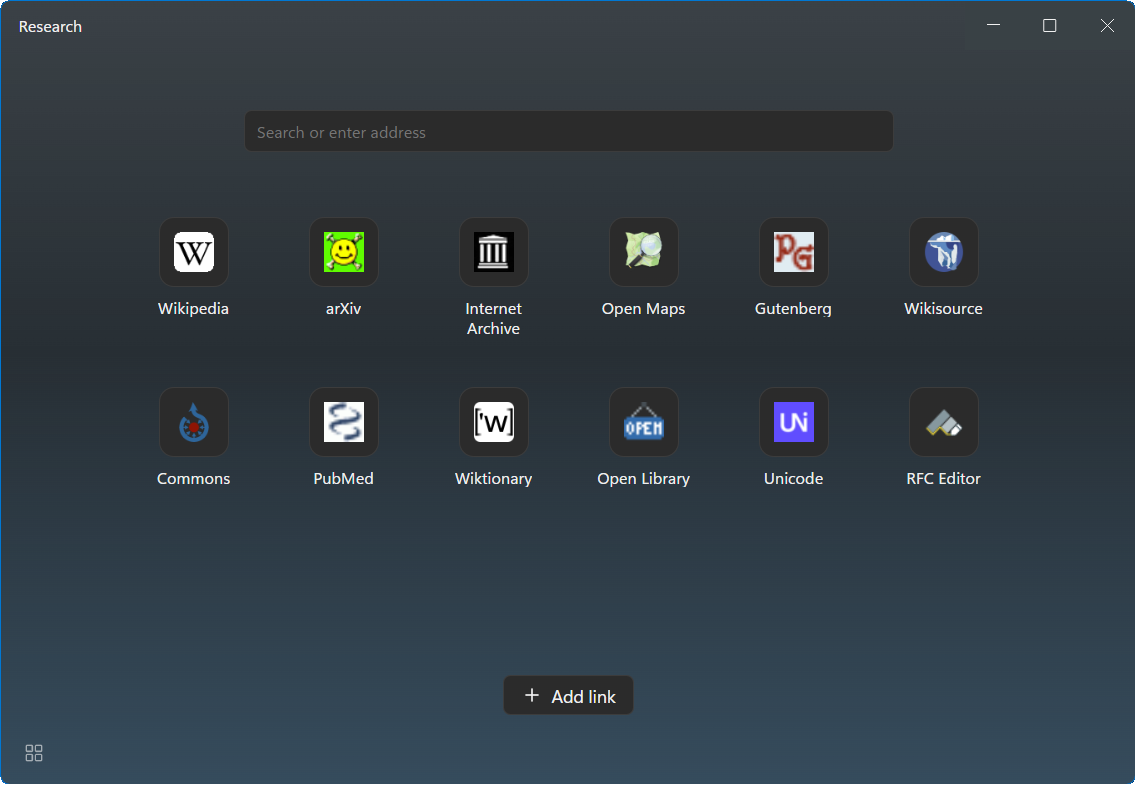
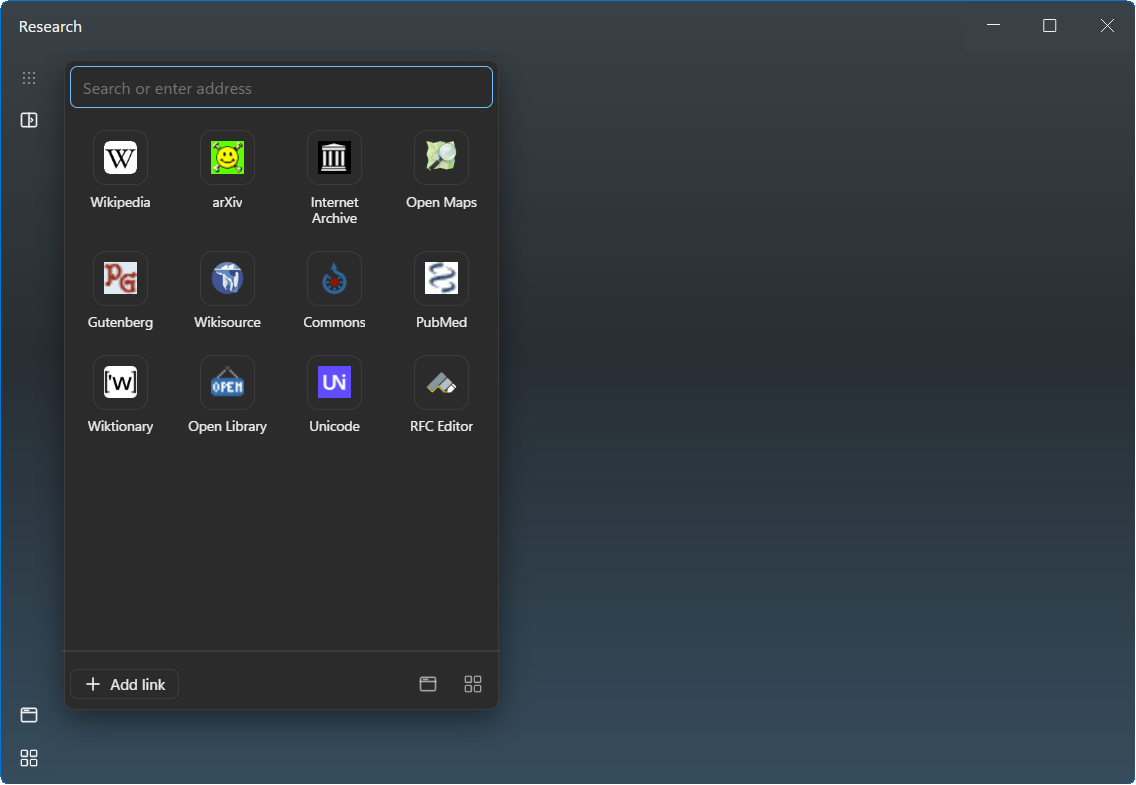
Updated readme and images

diff --git a/README.md b/README.md
@@ -16,11 +16,11 @@ section's chrome takes its page's colors, and an address bar appears only over
 a page that isn't one of the space's pinned sites — the left has none, the
 right does.
 
-![A space's home view: a search box above a grid of pinned site icons](docs/images/home.png)
+![A space window on its empty backdrop, with a flyout of pinned site icons and a search box](docs/images/home.png)
 
-Every space opens on its own home grid — pinned sites and a search box, with no
-browser chrome until a page needs it. Each pinned site keeps its page alive in
-the background, so going home and coming back resumes exactly where you were.
+Every space opens on its own backdrop with the space menu already up — pinned
+sites and a search box. Each pinned site keeps its page alive in the
+background, so leaving it and coming back resumes exactly where you were.
 
 ![The Manager window showing four space tiles, each with a montage of site favicons](docs/images/manager.png)
 
